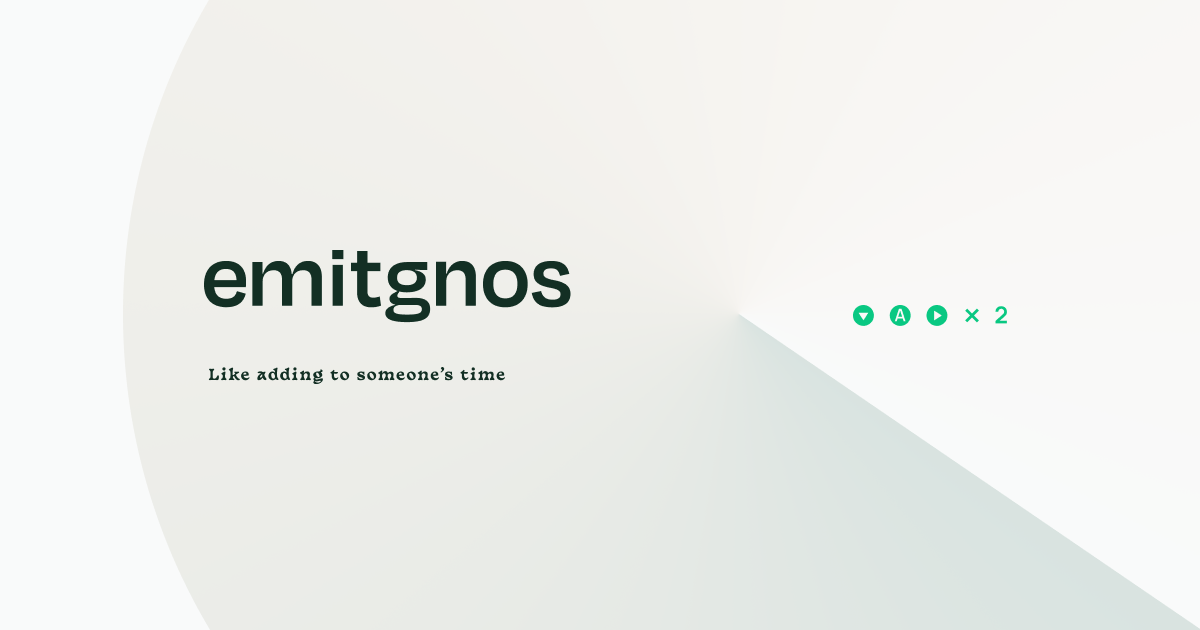
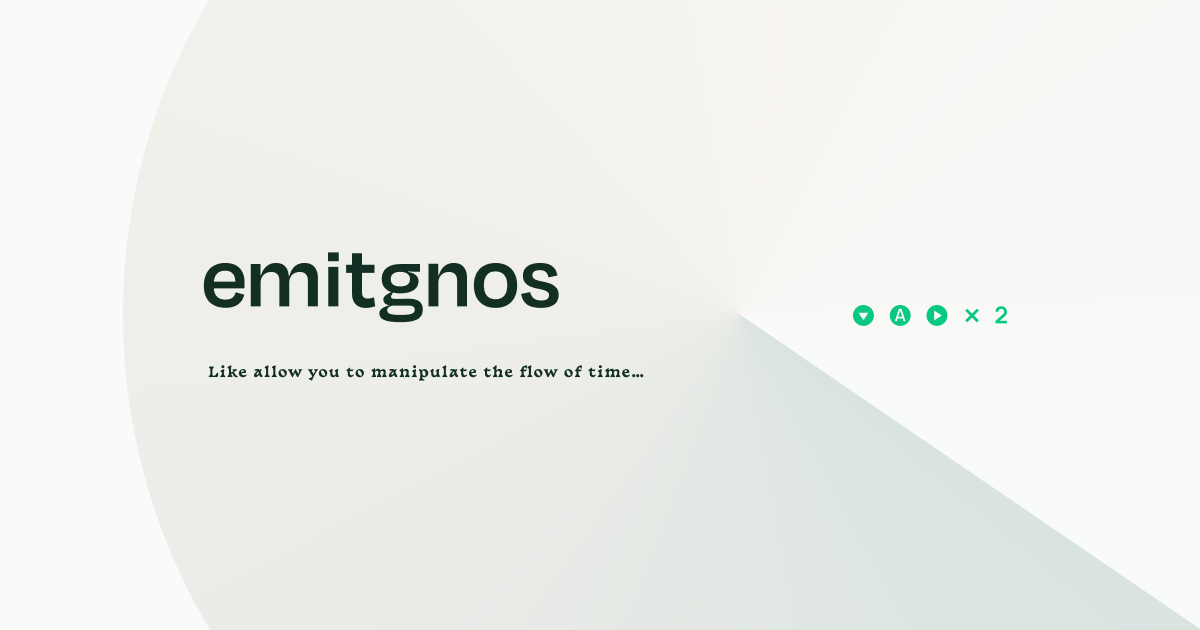
update styles, fix calcMinuteDeg logic

Changed region(s): [[0.185, 0.3921, 0.4933, 0.5127], [0.1542, 0.573, 0.5242, 0.6032]]

diff --git a/src/pages/index.tsx b/src/pages/index.tsx
@@ -50,7 +50,7 @@ const Home: NextPage = () => {
           <Logo title="Emitgnos Inc." />
         </h1>
         <em className={styles.catchCopy()}>
-          だれかの時間を増やすような / Like adding to someone&apos;s time
+          Like allow you to manipulate the flow of time…
         </em>
         <dl className={styles.contents()}>
           <div>

diff --git a/src/components/BackdropClock/index.tsx b/src/components/BackdropClock/index.tsx
@@ -26,7 +26,8 @@ export const BackdropClock: React.VFC = () => {
     })
   }, [setNowMinutesOfSecond, now])
 
-  const calcMinuteDeg = (nowMinute: number) => nowMinute * (365 / 3600) + 365
+  const calcMinuteDeg = (nowMinute: number) => nowMinute * (360 / 3600) + 360
+  console.log(nowMinutesOfSecond)
 
   const backdropStyles = css({
     position: 'fixed',

diff --git a/src/styles/top.ts b/src/styles/top.ts
@@ -71,6 +71,7 @@ export const styles = {
   }),
   footer: css({
     position: 'fixed',
+    zIndex: 2,
     bottom: '16px',
     right: '32px',
     display: 'flex',
